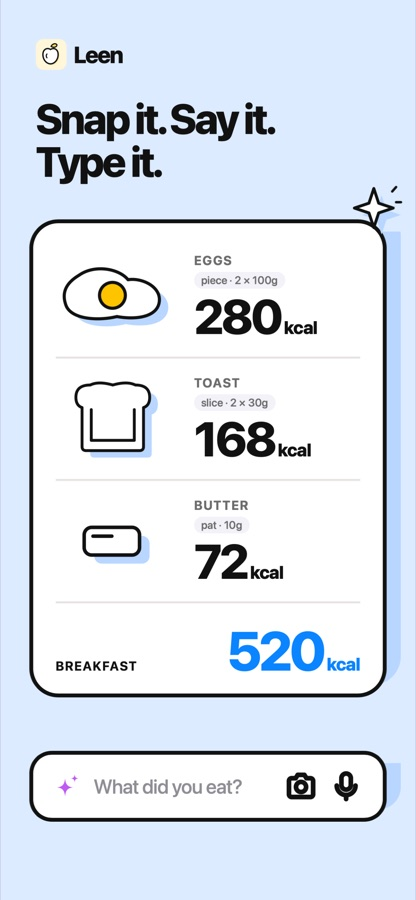
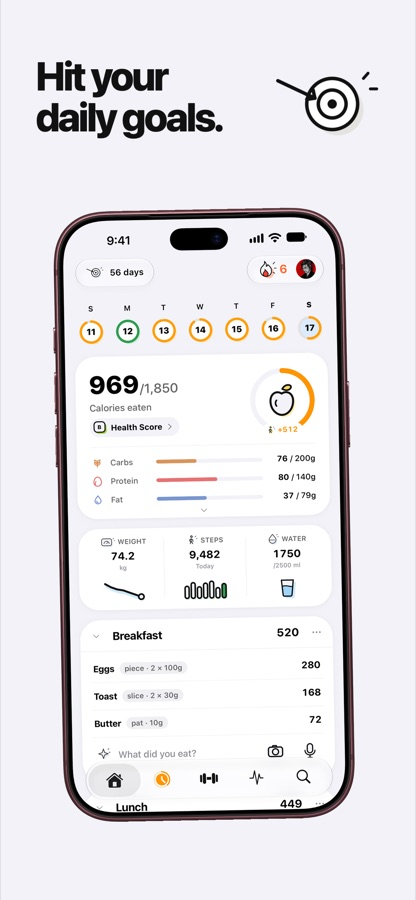
Update README.md: refine app descriptions, add new images for Leen and Mathlite, and include Battal and Botit images

Changed region(s): [[0.0625, 0.0311, 0.9688, 0.9333], [0.6875, 0.0622, 0.9062, 0.1556], [0.6562, 0.0622, 0.6875, 0.0933]]

diff --git a/README.md b/README.md
@@ -1,4 +1,4 @@
-# Hi, I'm Hakim 👋
+# Hi, I'm Hakim
 
 **Senior Engineer at [Battal](https://www.linkedin.com/company/battalapp/people/)** · Full-stack & mobile engineer · Cairo, Egypt 🇪🇬
 
@@ -8,41 +8,44 @@ I've been coding since I was 13: terminal programs in C and C++ first, then game
 
 ## My apps
 
+<table>
+<tr>
+<td valign="middle">
+
 ### [Leen](https://getleen.app): Calorie Counter & Fasting
 
-Snap a photo, say it or type it, and Leen works out the calories and macros. Built and run solo.
-
-- AI meal logging from a photo, your voice or text, with an A–F health score for every food
-- Intermittent fasting timer, water, weight, workouts and progress photos
-- iPhone, iPad, Android, Apple Watch, widgets and Siri · 20 languages, Arabic right to left included
-- React Native (Expo) · Node.js · MongoDB · Redis · Claude & OpenAI · AWS
-
-<p>
-  <img src="assets/leen/1.jpg" width="200" alt="Leen: log a meal by photo, voice or text" />
-  <img src="assets/leen/2.jpg" width="200" alt="Leen: home with daily calorie and macro goals" />
-</p>
+An AI calorie counter and fasting tracker: snap a photo, say it or type it, and Leen counts the calories.
 
 [App Store](https://apps.apple.com/app/id6754726109) · [Google Play](https://play.google.com/store/apps/details?id=com.hakimmohamed2.nutix) · [getleen.app](https://getleen.app)
 
+</td>
+<td width="200" align="center" valign="middle">
+  <img src="assets/leen/1.jpg" width="180" alt="Leen: home with daily calorie and macro goals" />
+</td>
+</tr>
+<tr>
+<td valign="middle">
+
 ### [Mathlite](https://mathlite.app): Mental Math Trainer
 
-Learn the trick behind every answer, practise it until it's automatic, then race the clock. Built and run solo.
-
-- 58 bite-size lessons from addition to fractions, each one a trick you can use for life
-- 60-second sprints and spaced review that brings each trick back before you forget it
-- iPhone, iPad and Android · 14 languages, Arabic right to left included
-- React Native (Expo) · Node.js · MongoDB · AWS
-
-<p>
-  <img src="assets/mathlite/1.jpg" width="200" alt="Mathlite: learn the trick" />
-  <img src="assets/mathlite/2.jpg" width="200" alt="Mathlite: 60-second sprint" />
-</p>
+A mental math trainer that teaches the trick behind every answer, then has you race the clock.
 
 [Google Play](https://play.google.com/store/apps/details?id=com.hakimmohamed.mathlite) · [mathlite.app](https://mathlite.app)
+
+</td>
+<td width="200" align="center" valign="middle">
+  <img src="assets/mathlite/1.jpg" width="180" alt="Mathlite: learn the trick" />
+</td>
+</tr>
+</table>
 
 ---
 
 ## Experience
+
+<table>
+<tr>
+<td valign="middle">
 
 ### Senior Engineer · [Battal](https://battalapp.com/) (180 For Applications)
 Part-time · Mar 2025 – Present · Cairo, Egypt · Remote
@@ -51,6 +54,14 @@ Battal is an app that helps people quit smoking.
 
 - Lead application development end to end, owning technical direction and delivery across mobile and backend
 - Architect and ship production features with Flutter and Node.js
+
+</td>
+<td width="200" align="center" valign="middle">
+  <img src="assets/work/battal.jpg" width="180" alt="Battal: the welcome screen of the quit-smoking program" />
+</td>
+</tr>
+<tr>
+<td valign="middle">
 
 ### [Botit](https://www.botitapp.com) · On-demand delivery platform
 Full-time · 2 yrs 5 mos · Cairo, Egypt · Hybrid
@@ -62,6 +73,13 @@ Full-time · 2 yrs 5 mos · Cairo, Egypt · Hybrid
 **Junior Back End Developer** · Jul 2023 – Mar 2024
 - Helped build and maintain the monolithic backend with Node.js, TypeScript and Express
 - Integrated webhooks that keep external data sources in sync with real-time updates
+
+</td>
+<td width="200" align="center" valign="middle">
+  <img src="assets/work/botit.jpg" width="200" alt="Botit: for the first time, everything, now" />
+</td>
+</tr>
+</table>
 
 ### Where it started · Tower Jump
 A game I made in Unity and published on Google Play (no longer available).
